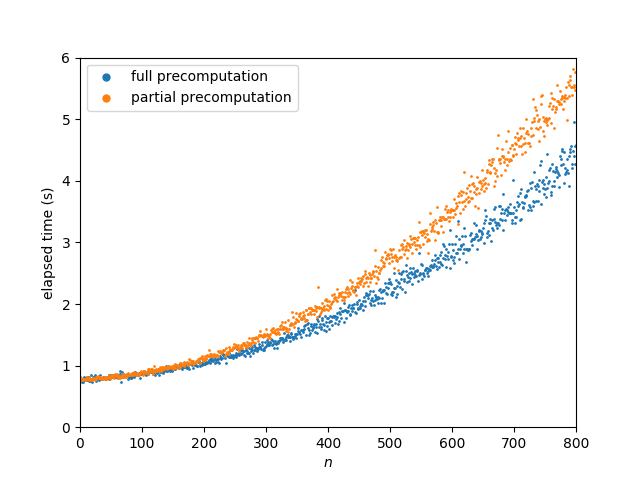
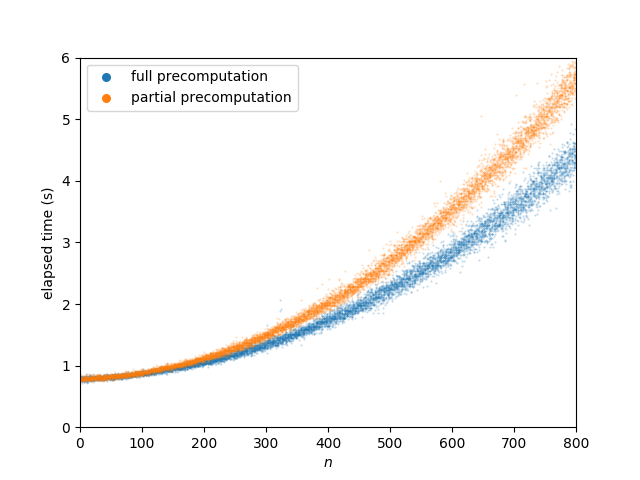
render with high resolution plots

Changed region(s): [[0.125, 0.125, 0.9062, 0.8125]]

diff --git a/src/scripts/plot_profiles.py b/src/scripts/plot_profiles.py
@@ -2,61 +2,72 @@ import matplotlib.pyplot as plt
 import sys
 import csv
 
-filename = sys.argv[1]
 job_samples = []
 full_cpu = []
 full_memory = []
 partial_cpu = []
 partial_memory = []
 
-with open(filename, 'r') as csvfile:
-	spamreader = csv.reader(csvfile, delimiter=' ')
-	for row in spamreader:
-		if row[0] == 'full':
-			job_samples.append(int(row[1]))
-			full_cpu.append(float(row[2]))
-			full_memory.append(float(row[3]) / 1024)
-		elif row[0] == 'partial':
-			partial_cpu.append(float(row[2]))
-			partial_memory.append(float(row[3]) / 1024)
+for filename in sys.argv[1:]:
+	with open(filename, 'r') as csvfile:
+		spamreader = csv.reader(csvfile, delimiter=' ')
+		for row in spamreader:
+			if row[0] == 'full':
+				job_samples.append(int(row[1]))
+				full_cpu.append(float(row[2]))
+				full_memory.append(float(row[3]) / 1024)
+			elif row[0] == 'partial':
+				partial_cpu.append(float(row[2]))
+				partial_memory.append(float(row[3]) / 1024)
+
+small_scale = 8
+big_scale = 0.2
+
+alpha = 0.3
+
+def draw_legend():
+	legend = plt.legend(loc='upper left')
+	for lh in legend.legendHandles:
+		lh.set_alpha(1)
+		lh._sizes = [30]
 
 cpu_figure = plt.figure(1)
-plt.scatter(job_samples, full_cpu, label='full precomputation')
-plt.scatter(job_samples, partial_cpu, label='partial precomputation')
+plt.scatter(job_samples, full_cpu, label='full precomputation', s=small_scale, alpha=alpha)
+plt.scatter(job_samples, partial_cpu, label='partial precomputation', s=small_scale, alpha=alpha)
 plt.xlabel('$n$')
 plt.ylabel('elapsed time (s)')
 plt.xlim([0, 100])
 plt.ylim([0.6, 1])
-legend = plt.legend()
-
+draw_legend()
 cpu_figure.savefig('precomputation_cpu_small.png')
+
 cpu_figure = plt.figure(2)
-plt.scatter(job_samples, full_cpu, label='full precomputation', s=1)
-plt.scatter(job_samples, partial_cpu, label='partial precomputation', s=1)
+plt.scatter(job_samples, full_cpu, label='full precomputation', s=big_scale, alpha=alpha)
+plt.scatter(job_samples, partial_cpu, label='partial precomputation', s=big_scale, alpha=alpha)
 plt.xlabel('$n$')
 plt.ylabel('elapsed time (s)')
 plt.xlim([0, 800])
 plt.ylim([0, 6])
-legend = plt.legend(markerscale=5)
+draw_legend()
 cpu_figure.savefig('precomputation_cpu_big.png')
 
 memory_figure = plt.figure(3)
-plt.scatter(job_samples, full_memory, label='full precomputation')
-plt.scatter(job_samples, partial_memory, label='partial precomputation')
+plt.scatter(job_samples, full_memory, label='full precomputation', s=small_scale, alpha=alpha)
+plt.scatter(job_samples, partial_memory, label='partial precomputation', s=small_scale, alpha=alpha)
 plt.xlabel('$n$')
 plt.ylabel('maximum allocated memory (MiB)')
 plt.xlim([0, 100])
 plt.ylim([70, 80])
-legend = plt.legend()
+draw_legend()
 memory_figure.savefig('precomputation_memory_small.png')
 
 memory_figure = plt.figure(4)
-plt.scatter(job_samples, full_memory, label='full precomputation', s=1)
-plt.scatter(job_samples, partial_memory, label='partial precomputation', s=1)
+plt.scatter(job_samples, full_memory, label='full precomputation', s=big_scale, alpha=alpha)
+plt.scatter(job_samples, partial_memory, label='partial precomputation', s=big_scale, alpha=alpha)
 plt.xlabel('$n$')
 plt.ylabel('maximum allocated memory (MiB)')
 plt.xlim([0, 800])
 plt.ylim([0, 400])
-legend = plt.legend(markerscale=5)
+draw_legend()
 memory_figure.savefig('precomputation_memory_big.png')
 
